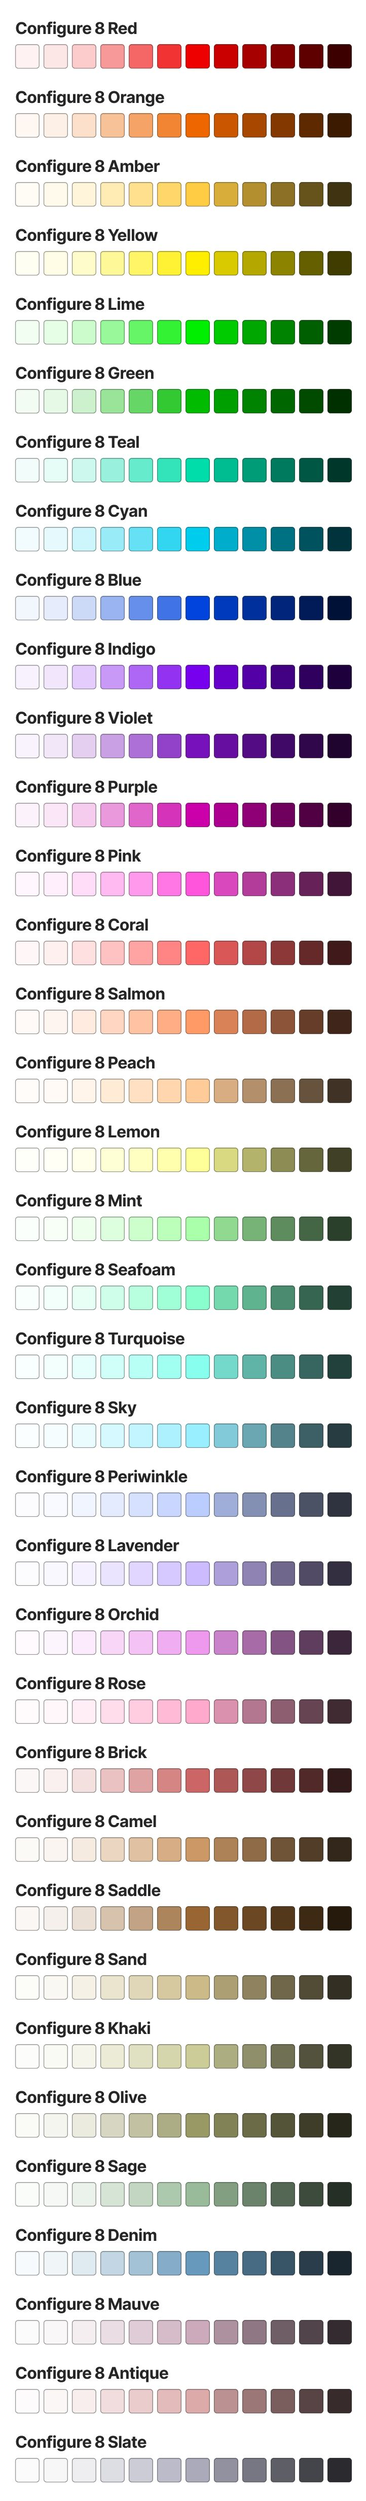
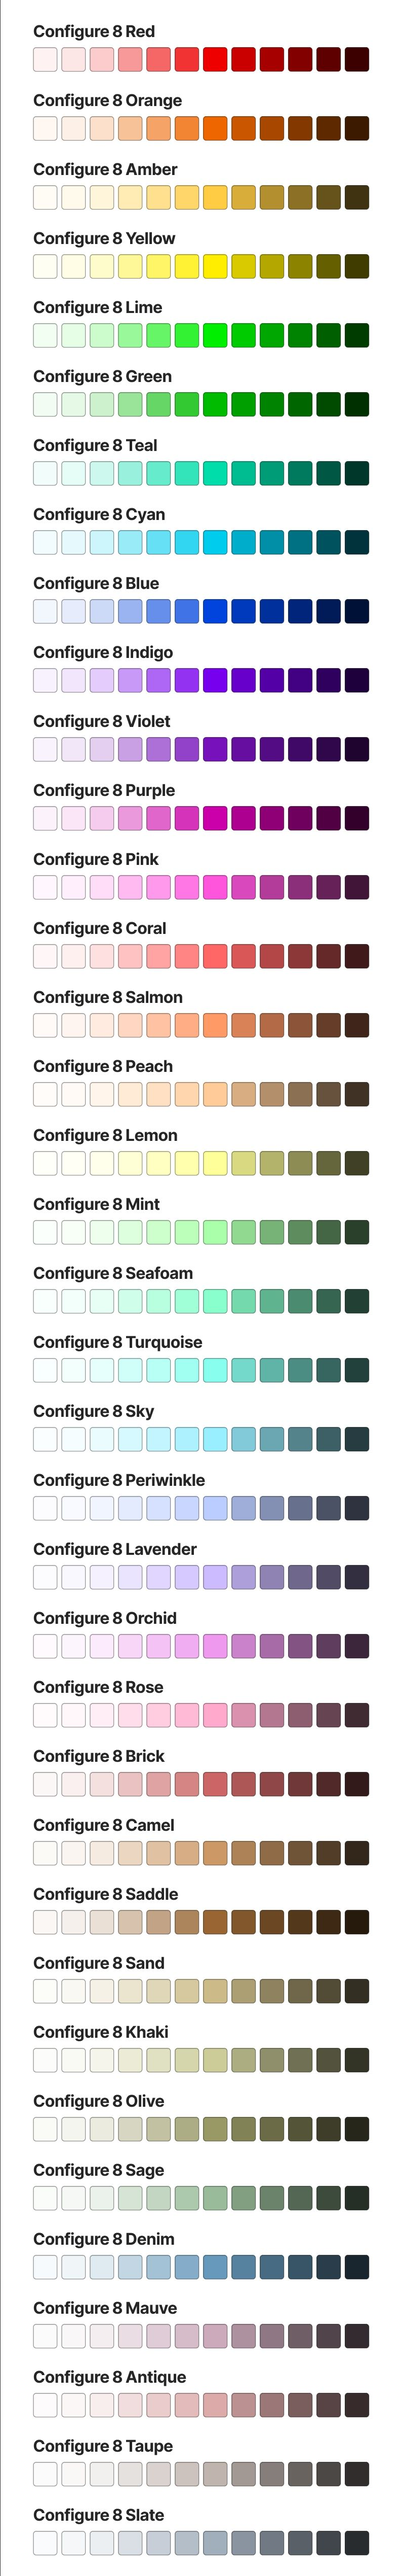
Update from theme.

diff --git a/palette.min.css b/palette.min.css
@@ -1,1 +1,1 @@
-:host,:root{--cfe-color--red-100: #fef2f2;--cfe-color--red-200: #fde6e6;--cfe-color--red-300: #fccccc;--cfe-color--red-400: #f89999;--cfe-color--red-500: #f56666;--cfe-color--red-600: #f13333;--cfe-color--red-700: #ee0000;--cfe-color--red-800: #ca0000;--cfe-color--red-900: #a70000;--cfe-color--red-1000: #830000;--cfe-color--red-1100: #5f0000;--cfe-color--red-1200: #3c0000;--cfe-color--orange-100: #fef7f2;--cfe-color--orange-200: #fdf0e6;--cfe-color--orange-300: #fce0cc;--cfe-color--orange-400: #f8c299;--cfe-color--orange-500: #f5a366;--cfe-color--orange-600: #f18533;--cfe-color--orange-700: #ee6600;--cfe-color--orange-800: #ca5700;--cfe-color--orange-900: #a74700;--cfe-color--orange-1000: #833800;--cfe-color--orange-1100: #5f2900;--cfe-color--orange-1200: #3c1a00;--cfe-color--amber-100: #fffcf6;--cfe-color--amber-200: #fffaec;--cfe-color--amber-300: #fff5da;--cfe-color--amber-400: #ffebb4;--cfe-color--amber-500: #ffe08f;--cfe-color--amber-600: #ffd669;--cfe-color--amber-700: #ffcc44;--cfe-color--amber-800: #d9ad3a;--cfe-color--amber-900: #b38f30;--cfe-color--amber-1000: #8c7025;--cfe-color--amber-1100: #66521b;--cfe-color--amber-1200: #403311;--cfe-color--yellow-100: #fffef2;--cfe-color--yellow-200: #fffde6;--cfe-color--yellow-300: #fffccc;--cfe-color--yellow-400: #fff899;--cfe-color--yellow-500: #fff566;--cfe-color--yellow-600: #fff133;--cfe-color--yellow-700: #ffee00;--cfe-color--yellow-800: #d9ca00;--cfe-color--yellow-900: #b3a700;--cfe-color--yellow-1000: #8c8300;--cfe-color--yellow-1100: #665f00;--cfe-color--yellow-1200: #403c00;--cfe-color--lime-100: #f2fef2;--cfe-color--lime-200: #e6fde6;--cfe-color--lime-300: #ccfccc;--cfe-color--lime-400: #99f899;--cfe-color--lime-500: #66f566;--cfe-color--lime-600: #33f133;--cfe-color--lime-700: #00ee00;--cfe-color--lime-800: #00ca00;--cfe-color--lime-900: #00a700;--cfe-color--lime-1000: #008300;--cfe-color--lime-1100: #005f00;--cfe-color--lime-1200: #003c00;--cfe-color--green-100: #f2fcf2;--cfe-color--green-200: #e6f8e6;--cfe-color--green-300: #ccf1cc;--cfe-color--green-400: #99e499;--cfe-color--green-500: #66d666;--cfe-color--green-600: #33c933;--cfe-color--green-700: #00bb00;--cfe-color--green-800: #009f00;--cfe-color--green-900: #008300;--cfe-color--green-1000: #006700;--cfe-color--green-1100: #004b00;--cfe-color--green-1200: #002f00;--cfe-color--teal-100: #f2fdfb;--cfe-color--teal-200: #e6fcf7;--cfe-color--teal-300: #ccf8ee;--cfe-color--teal-400: #99f1dd;--cfe-color--teal-500: #66ebcc;--cfe-color--teal-600: #33e4bb;--cfe-color--teal-700: #00ddaa;--cfe-color--teal-800: #00bc91;--cfe-color--teal-900: #009b77;--cfe-color--teal-1000: #007a5e;--cfe-color--teal-1100: #005844;--cfe-color--teal-1200: #00372b;--cfe-color--cyan-100: #f2fcfe;--cfe-color--cyan-200: #e6fafd;--cfe-color--cyan-300: #ccf5fc;--cfe-color--cyan-400: #99ebf8;--cfe-color--cyan-500: #66e0f5;--cfe-color--cyan-600: #33d6f1;--cfe-color--cyan-700: #00ccee;--cfe-color--cyan-800: #00adca;--cfe-color--cyan-900: #008fa7;--cfe-color--cyan-1000: #007083;--cfe-color--cyan-1100: #00525f;--cfe-color--cyan-1200: #00333c;--cfe-color--blue-100: #f2f6fd;--cfe-color--blue-200: #e6ecfc;--cfe-color--blue-300: #ccdaf8;--cfe-color--blue-400: #99b4f1;--cfe-color--blue-500: #668feb;--cfe-color--blue-600: #4073e6;--cfe-color--blue-700: #0044dd;--cfe-color--blue-800: #003abc;--cfe-color--blue-900: #00309b;--cfe-color--blue-1000: #00257a;--cfe-color--blue-1100: #001b58;--cfe-color--blue-1200: #001137;--cfe-color--indigo-100: #f8f2fe;--cfe-color--indigo-200: #f2e6fd;--cfe-color--indigo-300: #e4ccfc;--cfe-color--indigo-400: #c999f8;--cfe-color--indigo-500: #ae66f5;--cfe-color--indigo-600: #9333f1;--cfe-color--indigo-700: #7800ee;--cfe-color--indigo-800: #6600ca;--cfe-color--indigo-900: #5400a7;--cfe-color--indigo-1000: #420083;--cfe-color--indigo-1100: #30005f;--cfe-color--indigo-1200: #1e003c;--cfe-color--violet-100: #f8f3fc;--cfe-color--violet-200: #f1e7f8;--cfe-color--violet-300: #e4cff1;--cfe-color--violet-400: #c9a0e4;--cfe-color--violet-500: #ad70d6;--cfe-color--violet-600: #9241c9;--cfe-color--violet-700: #7711bb;--cfe-color--violet-800: #650e9f;--cfe-color--violet-900: #530c83;--cfe-color--violet-1000: #410967;--cfe-color--violet-1100: #30074b;--cfe-color--violet-1200: #1e042f;--cfe-color--purple-100: #fcf2fb;--cfe-color--purple-200: #fae6f7;--cfe-color--purple-300: #f5ccee;--cfe-color--purple-400: #eb99dd;--cfe-color--purple-500: #e066cc;--cfe-color--purple-600: #d633bb;--cfe-color--purple-700: #cc00aa;--cfe-color--purple-800: #ad0091;--cfe-color--purple-900: #8f0077;--cfe-color--purple-1000: #70005e;--cfe-color--purple-1100: #520044;--cfe-color--purple-1200: #33002b;--cfe-color--pink-100: #fff7fd;--cfe-color--pink-200: #ffeefc;--cfe-color--pink-300: #ffddf8;--cfe-color--pink-400: #ffbbf1;--cfe-color--pink-500: #ff99eb;--cfe-color--pink-600: #ff77e4;--cfe-color--pink-700: #ff55dd;--cfe-color--pink-800: #d948bc;--cfe-color--pink-900: #b33c9b;--cfe-color--pink-1000: #8c2f7a;--cfe-color--pink-1100: #662258;--cfe-color--pink-1200: #401537;--cfe-color--coral-100: #fff7f7;--cfe-color--coral-200: #fff0f0;--cfe-color--coral-300: #ffe0e0;--cfe-color--coral-400: #ffc2c2;--cfe-color--coral-500: #ffa3a3;--cfe-color--coral-600: #ff8585;--cfe-color--coral-700: #ff6666;--cfe-color--coral-800: #d95757;--cfe-color--coral-900: #b34747;--cfe-color--coral-1000: #8c3838;--cfe-color--coral-1100: #662929;--cfe-color--coral-1200: #401a1a;--cfe-color--salmon-100: #fffaf7;--cfe-color--salmon-200: #fff5f0;--cfe-color--salmon-300: #ffebe0;--cfe-color--salmon-400: #ffd6c2;--cfe-color--salmon-500: #ffc2a3;--cfe-color--salmon-600: #ffad85;--cfe-color--salmon-700: #ff9966;--cfe-color--salmon-800: #d98257;--cfe-color--salmon-900: #b36b47;--cfe-color--salmon-1000: #8c5438;--cfe-color--salmon-1100: #663d29;--cfe-color--salmon-1200: #40261a;--cfe-color--peach-100: #fffcfa;--cfe-color--peach-200: #fffaf5;--cfe-color--peach-300: #fff5eb;--cfe-color--peach-400: #ffebd6;--cfe-color--peach-500: #ffe0c2;--cfe-color--peach-600: #ffd6ad;--cfe-color--peach-700: #ffcc99;--cfe-color--peach-800: #d9ad82;--cfe-color--peach-900: #b38f6b;--cfe-color--peach-1000: #8c7054;--cfe-color--peach-1100: #66523d;--cfe-color--peach-1200: #403326;--cfe-color--lemon-100: #fffffa;--cfe-color--lemon-200: #fffff5;--cfe-color--lemon-300: #ffffeb;--cfe-color--lemon-400: #ffffd6;--cfe-color--lemon-500: #ffffc2;--cfe-color--lemon-600: #ffffad;--cfe-color--lemon-700: #ffff99;--cfe-color--lemon-800: #d9d982;--cfe-color--lemon-900: #b3b36b;--cfe-color--lemon-1000: #8c8c54;--cfe-color--lemon-1100: #66663d;--cfe-color--lemon-1200: #404026;--cfe-scheme-color--mint-100: #fbfffb;--cfe-scheme-color--mint-200: #f7fff7;--cfe-scheme-color--mint-300: #eeffee;--cfe-scheme-color--mint-400: #ddffdd;--cfe-scheme-color--mint-500: #ccffcc;--cfe-scheme-color--mint-600: #bbffbb;--cfe-scheme-color--mint-700: #aaffaa;--cfe-scheme-color--mint-800: #91d991;--cfe-scheme-color--mint-900: #77b377;--cfe-scheme-color--mint-1000: #5e8c5e;--cfe-scheme-color--mint-1100: #446644;--cfe-scheme-color--mint-1200: #2b402b;--cfe-scheme-color--seafoam-100: #f9fffc;--cfe-scheme-color--seafoam-200: #f3fffa;--cfe-scheme-color--seafoam-300: #e7fff5;--cfe-scheme-color--seafoam-400: #cfffeb;--cfe-scheme-color--seafoam-500: #b8ffe0;--cfe-scheme-color--seafoam-600: #a0ffd6;--cfe-scheme-color--seafoam-700: #88ffcc;--cfe-scheme-color--seafoam-800: #74d9ad;--cfe-scheme-color--seafoam-900: #5fb38f;--cfe-scheme-color--seafoam-1000: #4b8c70;--cfe-scheme-color--seafoam-1100: #366652;--cfe-scheme-color--seafoam-1200: #224033;--cfe-scheme-color--turquoise-100: #f9fffe;--cfe-scheme-color--turquoise-200: #f3fffd;--cfe-scheme-color--turquoise-300: #e7fffc;--cfe-scheme-color--turquoise-400: #cffff8;--cfe-scheme-color--turquoise-500: #b8fff5;--cfe-scheme-color--turquoise-600: #a0fff1;--cfe-scheme-color--turquoise-700: #88ffee;--cfe-scheme-color--turquoise-800: #74d9ca;--cfe-scheme-color--turquoise-900: #5fb3a7;--cfe-scheme-color--turquoise-1000: #4b8c83;--cfe-scheme-color--turquoise-1100: #36665f;--cfe-scheme-color--turquoise-1200: #22403c;--cfe-scheme-color--sky-100: #fafeff;--cfe-scheme-color--sky-200: #f5fdff;--cfe-scheme-color--sky-300: #ebfcff;--cfe-scheme-color--sky-400: #d6f8ff;--cfe-scheme-color--sky-500: #c2f5ff;--cfe-scheme-color--sky-600: #adf1ff;--cfe-scheme-color--sky-700: #99eeff;--cfe-scheme-color--sky-800: #82cad9;--cfe-scheme-color--sky-900: #6ba7b3;--cfe-scheme-color--sky-1000: #54838c;--cfe-scheme-color--sky-1100: #3d5f66;--cfe-scheme-color--sky-1200: #263c40;--cfe-scheme-color--periwinkle-100: #fcfcff;--cfe-scheme-color--periwinkle-200: #f8faff;--cfe-scheme-color--periwinkle-300: #f1f5ff;--cfe-scheme-color--periwinkle-400: #e4ebff;--cfe-scheme-color--periwinkle-500: #d6e0ff;--cfe-scheme-color--periwinkle-600: #c9d6ff;--cfe-scheme-color--periwinkle-700: #bbccff;--cfe-scheme-color--periwinkle-800: #9fadd9;--cfe-scheme-color--periwinkle-900: #838fb3;--cfe-scheme-color--periwinkle-1000: #67708c;--cfe-scheme-color--periwinkle-1100: #4b5266;--cfe-scheme-color--periwinkle-1200: #2f3340;--cfe-color--lavender-100: #fcfcff;--cfe-color--lavender-200: #faf8ff;--cfe-color--lavender-300: #f5f1ff;--cfe-color--lavender-400: #ebe4ff;--cfe-color--lavender-500: #e0d6ff;--cfe-color--lavender-600: #d6c9ff;--cfe-color--lavender-700: #ccbbff;--cfe-color--lavender-800: #ad9fd9;--cfe-color--lavender-900: #8f83b3;--cfe-color--lavender-1000: #70678c;--cfe-color--lavender-1100: #524b66;--cfe-color--lavender-1200: #332f40;--cfe-color--orchid-100: #fefafe;--cfe-color--orchid-200: #fdf5fd;--cfe-color--orchid-300: #fcebfc;--cfe-color--orchid-400: #f8d6f8;--cfe-color--orchid-500: #f5c2f5;--cfe-color--orchid-600: #f1adf1;--cfe-color--orchid-700: #ee99ee;--cfe-color--orchid-800: #ca82ca;--cfe-color--orchid-900: #a76ba7;--cfe-color--orchid-1000: #835483;--cfe-color--orchid-1100: #5f3d5f;--cfe-color--orchid-1200: #3c263c;--cfe-color--rose-100: #fffbfc;--cfe-color--rose-200: #fff7fa;--cfe-color--rose-300: #ffeef5;--cfe-color--rose-400: #ffddeb;--cfe-color--rose-500: #ffcce0;--cfe-color--rose-600: #ffbbd6;--cfe-color--rose-700: #ffaacc;--cfe-color--rose-800: #d991ad;--cfe-color--rose-900: #b3778f;--cfe-color--rose-1000: #8c5e70;--cfe-color--rose-1100: #664452;--cfe-color--rose-1200: #402b33;--cfe-color--brick-100: #fcf7f7;--cfe-color--brick-200: #faf0f0;--cfe-color--brick-300: #f5e0e0;--cfe-color--brick-400: #ebc2c2;--cfe-color--brick-500: #e0a3a3;--cfe-color--brick-600: #d68585;--cfe-color--brick-700: #cc6666;--cfe-color--brick-800: #ad5757;--cfe-color--brick-900: #8f4747;--cfe-color--brick-1000: #703838;--cfe-color--brick-1100: #522929;--cfe-color--brick-1200: #331a1a;--cfe-color--camel-100: #fcfaf7;--cfe-color--camel-200: #faf5f0;--cfe-color--camel-300: #f5ebe0;--cfe-color--camel-400: #ebd6c2;--cfe-color--camel-500: #e0c2a3;--cfe-color--camel-600: #d6ad85;--cfe-color--camel-700: #cc9966;--cfe-color--camel-800: #ad8257;--cfe-color--camel-900: #8f6b47;--cfe-color--camel-1000: #705438;--cfe-color--camel-1100: #523d29;--cfe-color--camel-1200: #33261a;--cfe-color--saddle-100: #faf7f2;--cfe-color--saddle-200: #f5f0e6;--cfe-color--saddle-300: #ebe0cc;--cfe-color--saddle-400: #d6c299;--cfe-color--saddle-500: #c2a366;--cfe-color--saddle-600: #ad8533;--cfe-color--saddle-700: #996600;--cfe-color--saddle-800: #825700;--cfe-color--saddle-900: #6b4700;--cfe-color--saddle-1000: #543800;--cfe-color--saddle-1100: #3d2900;--cfe-color--saddle-1200: #261a00;--cfe-color--sand-100: #fcfcf7;--cfe-color--sand-200: #faf8f0;--cfe-color--sand-300: #f5f1e0;--cfe-color--sand-400: #ebe4c2;--cfe-color--sand-500: #e0d6a3;--cfe-color--sand-600: #d6c985;--cfe-color--sand-700: #ccbb66;--cfe-color--sand-800: #ad9f57;--cfe-color--sand-900: #8f8347;--cfe-color--sand-1000: #706738;--cfe-color--sand-1100: #524b29;--cfe-color--sand-1200: #332f1a;--cfe-color--khaki-100: #fcfcfa;--cfe-color--khaki-200: #fafaf5;--cfe-color--khaki-300: #f5f5eb;--cfe-color--khaki-400: #ebebd6;--cfe-color--khaki-500: #e0e0c2;--cfe-color--khaki-600: #d6d6ad;--cfe-color--khaki-700: #cccc99;--cfe-color--khaki-800: #adad82;--cfe-color--khaki-900: #8f8f6b;--cfe-color--khaki-1000: #707054;--cfe-color--khaki-1100: #52523d;--cfe-color--khaki-1200: #333326;--cfe-color--olive-100: #fafaf7;--cfe-color--olive-200: #f5f5f0;--cfe-color--olive-300: #ebebe0;--cfe-color--olive-400: #d6d6c2;--cfe-color--olive-500: #c2c2a3;--cfe-color--olive-600: #adad85;--cfe-color--olive-700: #999966;--cfe-color--olive-800: #828257;--cfe-color--olive-900: #6b6b47;--cfe-color--olive-1000: #545438;--cfe-color--olive-1100: #3d3d29;--cfe-color--olive-1200: #26261a;--cfe-color--sage-100: #fafcfa;--cfe-color--sage-200: #f5f8f5;--cfe-color--sage-300: #ebf1eb;--cfe-color--sage-400: #d6e4d6;--cfe-color--sage-500: #c2d6c2;--cfe-color--sage-600: #adc9ad;--cfe-color--sage-700: #99bb99;--cfe-color--sage-800: #829f82;--cfe-color--sage-900: #6b836b;--cfe-color--sage-1000: #546754;--cfe-color--sage-1100: #3d4b3d;--cfe-color--sage-1200: #262f26;--cfe-color--denim-100: #f7fafc;--cfe-color--denim-200: #f0f5f8;--cfe-color--denim-300: #e0ebf1;--cfe-color--denim-400: #c2d6e4;--cfe-color--denim-500: #a3c2d6;--cfe-color--denim-600: #85adc9;--cfe-color--denim-700: #6699bb;--cfe-color--denim-800: #57829f;--cfe-color--denim-900: #476b83;--cfe-color--denim-1000: #385467;--cfe-color--denim-1100: #293d4b;--cfe-color--denim-1200: #1a262f;--cfe-color--mauve-100: #fcfbfc;--cfe-color--mauve-200: #faf7f8;--cfe-color--mauve-300: #f5eef1;--cfe-color--mauve-400: #ebdde4;--cfe-color--mauve-500: #e0ccd6;--cfe-color--mauve-600: #d6bbc9;--cfe-color--mauve-700: #ccaabb;--cfe-color--mauve-800: #ad919f;--cfe-color--mauve-900: #8f7783;--cfe-color--mauve-1000: #705e67;--cfe-color--mauve-1100: #52444b;--cfe-color--mauve-1200: #332b2f;--cfe-color--antique-100: #fdfbfb;--cfe-color--antique-200: #fcf7f7;--cfe-color--antique-300: #f8eeee;--cfe-color--antique-400: #f1dddd;--cfe-color--antique-500: #ebcccc;--cfe-color--antique-600: #e4bbbb;--cfe-color--antique-700: #ddaaaa;--cfe-color--antique-800: #bc9191;--cfe-color--antique-900: #9b7777;--cfe-color--antique-1000: #7a5e5e;--cfe-color--antique-1100: #584444;--cfe-color--antique-1200: #372b2b;--cfe-color--slate-100: #fbfbfc;--cfe-color--slate-200: #f7f7f8;--cfe-color--slate-300: #eeeef1;--cfe-color--slate-400: #dddde4;--cfe-color--slate-500: #ccccd6;--cfe-color--slate-600: #bbbbc9;--cfe-color--slate-700: #aaaabb;--cfe-color--slate-800: #91919f;--cfe-color--slate-900: #777783;--cfe-color--slate-1000: #5e5e67;--cfe-color--slate-1100: #44444b;--cfe-color--slate-1200: #2b2b2f}
+:host,:root{--cfe-color--red-100: #fef2f2;--cfe-color--red-200: #fde6e6;--cfe-color--red-300: #fccccc;--cfe-color--red-400: #f89999;--cfe-color--red-500: #f56666;--cfe-color--red-600: #f13333;--cfe-color--red-700: #ee0000;--cfe-color--red-800: #ca0000;--cfe-color--red-900: #a70000;--cfe-color--red-1000: #830000;--cfe-color--red-1100: #5f0000;--cfe-color--red-1200: #3c0000;--cfe-color--orange-100: #fef7f2;--cfe-color--orange-200: #fdf0e6;--cfe-color--orange-300: #fce0cc;--cfe-color--orange-400: #f8c299;--cfe-color--orange-500: #f5a366;--cfe-color--orange-600: #f18533;--cfe-color--orange-700: #ee6600;--cfe-color--orange-800: #ca5700;--cfe-color--orange-900: #a74700;--cfe-color--orange-1000: #833800;--cfe-color--orange-1100: #5f2900;--cfe-color--orange-1200: #3c1a00;--cfe-color--amber-100: #fffcf6;--cfe-color--amber-200: #fffaec;--cfe-color--amber-300: #fff5da;--cfe-color--amber-400: #ffebb4;--cfe-color--amber-500: #ffe08f;--cfe-color--amber-600: #ffd669;--cfe-color--amber-700: #ffcc44;--cfe-color--amber-800: #d9ad3a;--cfe-color--amber-900: #b38f30;--cfe-color--amber-1000: #8c7025;--cfe-color--amber-1100: #66521b;--cfe-color--amber-1200: #403311;--cfe-color--yellow-100: #fffef2;--cfe-color--yellow-200: #fffde6;--cfe-color--yellow-300: #fffccc;--cfe-color--yellow-400: #fff899;--cfe-color--yellow-500: #fff566;--cfe-color--yellow-600: #fff133;--cfe-color--yellow-700: #ffee00;--cfe-color--yellow-800: #d9ca00;--cfe-color--yellow-900: #b3a700;--cfe-color--yellow-1000: #8c8300;--cfe-color--yellow-1100: #665f00;--cfe-color--yellow-1200: #403c00;--cfe-color--lime-100: #f2fef2;--cfe-color--lime-200: #e6fde6;--cfe-color--lime-300: #ccfccc;--cfe-color--lime-400: #99f899;--cfe-color--lime-500: #66f566;--cfe-color--lime-600: #33f133;--cfe-color--lime-700: #00ee00;--cfe-color--lime-800: #00ca00;--cfe-color--lime-900: #00a700;--cfe-color--lime-1000: #008300;--cfe-color--lime-1100: #005f00;--cfe-color--lime-1200: #003c00;--cfe-color--green-100: #f2fcf2;--cfe-color--green-200: #e6f8e6;--cfe-color--green-300: #ccf1cc;--cfe-color--green-400: #99e499;--cfe-color--green-500: #66d666;--cfe-color--green-600: #33c933;--cfe-color--green-700: #00bb00;--cfe-color--green-800: #009f00;--cfe-color--green-900: #008300;--cfe-color--green-1000: #006700;--cfe-color--green-1100: #004b00;--cfe-color--green-1200: #002f00;--cfe-color--teal-100: #f2fdfb;--cfe-color--teal-200: #e6fcf7;--cfe-color--teal-300: #ccf8ee;--cfe-color--teal-400: #99f1dd;--cfe-color--teal-500: #66ebcc;--cfe-color--teal-600: #33e4bb;--cfe-color--teal-700: #00ddaa;--cfe-color--teal-800: #00bc91;--cfe-color--teal-900: #009b77;--cfe-color--teal-1000: #007a5e;--cfe-color--teal-1100: #005844;--cfe-color--teal-1200: #00372b;--cfe-color--cyan-100: #f2fcfe;--cfe-color--cyan-200: #e6fafd;--cfe-color--cyan-300: #ccf5fc;--cfe-color--cyan-400: #99ebf8;--cfe-color--cyan-500: #66e0f5;--cfe-color--cyan-600: #33d6f1;--cfe-color--cyan-700: #00ccee;--cfe-color--cyan-800: #00adca;--cfe-color--cyan-900: #008fa7;--cfe-color--cyan-1000: #007083;--cfe-color--cyan-1100: #00525f;--cfe-color--cyan-1200: #00333c;--cfe-color--blue-100: #f2f6fd;--cfe-color--blue-200: #e6ecfc;--cfe-color--blue-300: #ccdaf8;--cfe-color--blue-400: #99b4f1;--cfe-color--blue-500: #668feb;--cfe-color--blue-600: #4073e6;--cfe-color--blue-700: #0044dd;--cfe-color--blue-800: #003abc;--cfe-color--blue-900: #00309b;--cfe-color--blue-1000: #00257a;--cfe-color--blue-1100: #001b58;--cfe-color--blue-1200: #001137;--cfe-color--indigo-100: #f8f2fe;--cfe-color--indigo-200: #f2e6fd;--cfe-color--indigo-300: #e4ccfc;--cfe-color--indigo-400: #c999f8;--cfe-color--indigo-500: #ae66f5;--cfe-color--indigo-600: #9333f1;--cfe-color--indigo-700: #7800ee;--cfe-color--indigo-800: #6600ca;--cfe-color--indigo-900: #5400a7;--cfe-color--indigo-1000: #420083;--cfe-color--indigo-1100: #30005f;--cfe-color--indigo-1200: #1e003c;--cfe-color--violet-100: #f8f3fc;--cfe-color--violet-200: #f1e7f8;--cfe-color--violet-300: #e4cff1;--cfe-color--violet-400: #c9a0e4;--cfe-color--violet-500: #ad70d6;--cfe-color--violet-600: #9241c9;--cfe-color--violet-700: #7711bb;--cfe-color--violet-800: #650e9f;--cfe-color--violet-900: #530c83;--cfe-color--violet-1000: #410967;--cfe-color--violet-1100: #30074b;--cfe-color--violet-1200: #1e042f;--cfe-color--purple-100: #fcf2fb;--cfe-color--purple-200: #fae6f7;--cfe-color--purple-300: #f5ccee;--cfe-color--purple-400: #eb99dd;--cfe-color--purple-500: #e066cc;--cfe-color--purple-600: #d633bb;--cfe-color--purple-700: #cc00aa;--cfe-color--purple-800: #ad0091;--cfe-color--purple-900: #8f0077;--cfe-color--purple-1000: #70005e;--cfe-color--purple-1100: #520044;--cfe-color--purple-1200: #33002b;--cfe-color--pink-100: #fff7fd;--cfe-color--pink-200: #ffeefc;--cfe-color--pink-300: #ffddf8;--cfe-color--pink-400: #ffbbf1;--cfe-color--pink-500: #ff99eb;--cfe-color--pink-600: #ff77e4;--cfe-color--pink-700: #ff55dd;--cfe-color--pink-800: #d948bc;--cfe-color--pink-900: #b33c9b;--cfe-color--pink-1000: #8c2f7a;--cfe-color--pink-1100: #662258;--cfe-color--pink-1200: #401537;--cfe-color--coral-100: #fff7f7;--cfe-color--coral-200: #fff0f0;--cfe-color--coral-300: #ffe0e0;--cfe-color--coral-400: #ffc2c2;--cfe-color--coral-500: #ffa3a3;--cfe-color--coral-600: #ff8585;--cfe-color--coral-700: #ff6666;--cfe-color--coral-800: #d95757;--cfe-color--coral-900: #b34747;--cfe-color--coral-1000: #8c3838;--cfe-color--coral-1100: #662929;--cfe-color--coral-1200: #401a1a;--cfe-color--salmon-100: #fffaf7;--cfe-color--salmon-200: #fff5f0;--cfe-color--salmon-300: #ffebe0;--cfe-color--salmon-400: #ffd6c2;--cfe-color--salmon-500: #ffc2a3;--cfe-color--salmon-600: #ffad85;--cfe-color--salmon-700: #ff9966;--cfe-color--salmon-800: #d98257;--cfe-color--salmon-900: #b36b47;--cfe-color--salmon-1000: #8c5438;--cfe-color--salmon-1100: #663d29;--cfe-color--salmon-1200: #40261a;--cfe-color--peach-100: #fffcfa;--cfe-color--peach-200: #fffaf5;--cfe-color--peach-300: #fff5eb;--cfe-color--peach-400: #ffebd6;--cfe-color--peach-500: #ffe0c2;--cfe-color--peach-600: #ffd6ad;--cfe-color--peach-700: #ffcc99;--cfe-color--peach-800: #d9ad82;--cfe-color--peach-900: #b38f6b;--cfe-color--peach-1000: #8c7054;--cfe-color--peach-1100: #66523d;--cfe-color--peach-1200: #403326;--cfe-color--lemon-100: #fffffa;--cfe-color--lemon-200: #fffff5;--cfe-color--lemon-300: #ffffeb;--cfe-color--lemon-400: #ffffd6;--cfe-color--lemon-500: #ffffc2;--cfe-color--lemon-600: #ffffad;--cfe-color--lemon-700: #ffff99;--cfe-color--lemon-800: #d9d982;--cfe-color--lemon-900: #b3b36b;--cfe-color--lemon-1000: #8c8c54;--cfe-color--lemon-1100: #66663d;--cfe-color--lemon-1200: #404026;--cfe-scheme-color--mint-100: #fbfffb;--cfe-scheme-color--mint-200: #f7fff7;--cfe-scheme-color--mint-300: #eeffee;--cfe-scheme-color--mint-400: #ddffdd;--cfe-scheme-color--mint-500: #ccffcc;--cfe-scheme-color--mint-600: #bbffbb;--cfe-scheme-color--mint-700: #aaffaa;--cfe-scheme-color--mint-800: #91d991;--cfe-scheme-color--mint-900: #77b377;--cfe-scheme-color--mint-1000: #5e8c5e;--cfe-scheme-color--mint-1100: #446644;--cfe-scheme-color--mint-1200: #2b402b;--cfe-scheme-color--seafoam-100: #f9fffc;--cfe-scheme-color--seafoam-200: #f3fffa;--cfe-scheme-color--seafoam-300: #e7fff5;--cfe-scheme-color--seafoam-400: #cfffeb;--cfe-scheme-color--seafoam-500: #b8ffe0;--cfe-scheme-color--seafoam-600: #a0ffd6;--cfe-scheme-color--seafoam-700: #88ffcc;--cfe-scheme-color--seafoam-800: #74d9ad;--cfe-scheme-color--seafoam-900: #5fb38f;--cfe-scheme-color--seafoam-1000: #4b8c70;--cfe-scheme-color--seafoam-1100: #366652;--cfe-scheme-color--seafoam-1200: #224033;--cfe-scheme-color--turquoise-100: #f9fffe;--cfe-scheme-color--turquoise-200: #f3fffd;--cfe-scheme-color--turquoise-300: #e7fffc;--cfe-scheme-color--turquoise-400: #cffff8;--cfe-scheme-color--turquoise-500: #b8fff5;--cfe-scheme-color--turquoise-600: #a0fff1;--cfe-scheme-color--turquoise-700: #88ffee;--cfe-scheme-color--turquoise-800: #74d9ca;--cfe-scheme-color--turquoise-900: #5fb3a7;--cfe-scheme-color--turquoise-1000: #4b8c83;--cfe-scheme-color--turquoise-1100: #36665f;--cfe-scheme-color--turquoise-1200: #22403c;--cfe-scheme-color--sky-100: #fafeff;--cfe-scheme-color--sky-200: #f5fdff;--cfe-scheme-color--sky-300: #ebfcff;--cfe-scheme-color--sky-400: #d6f8ff;--cfe-scheme-color--sky-500: #c2f5ff;--cfe-scheme-color--sky-600: #adf1ff;--cfe-scheme-color--sky-700: #99eeff;--cfe-scheme-color--sky-800: #82cad9;--cfe-scheme-color--sky-900: #6ba7b3;--cfe-scheme-color--sky-1000: #54838c;--cfe-scheme-color--sky-1100: #3d5f66;--cfe-scheme-color--sky-1200: #263c40;--cfe-scheme-color--periwinkle-100: #fcfcff;--cfe-scheme-color--periwinkle-200: #f8faff;--cfe-scheme-color--periwinkle-300: #f1f5ff;--cfe-scheme-color--periwinkle-400: #e4ebff;--cfe-scheme-color--periwinkle-500: #d6e0ff;--cfe-scheme-color--periwinkle-600: #c9d6ff;--cfe-scheme-color--periwinkle-700: #bbccff;--cfe-scheme-color--periwinkle-800: #9fadd9;--cfe-scheme-color--periwinkle-900: #838fb3;--cfe-scheme-color--periwinkle-1000: #67708c;--cfe-scheme-color--periwinkle-1100: #4b5266;--cfe-scheme-color--periwinkle-1200: #2f3340;--cfe-color--lavender-100: #fcfcff;--cfe-color--lavender-200: #faf8ff;--cfe-color--lavender-300: #f5f1ff;--cfe-color--lavender-400: #ebe4ff;--cfe-color--lavender-500: #e0d6ff;--cfe-color--lavender-600: #d6c9ff;--cfe-color--lavender-700: #ccbbff;--cfe-color--lavender-800: #ad9fd9;--cfe-color--lavender-900: #8f83b3;--cfe-color--lavender-1000: #70678c;--cfe-color--lavender-1100: #524b66;--cfe-color--lavender-1200: #332f40;--cfe-color--orchid-100: #fefafe;--cfe-color--orchid-200: #fdf5fd;--cfe-color--orchid-300: #fcebfc;--cfe-color--orchid-400: #f8d6f8;--cfe-color--orchid-500: #f5c2f5;--cfe-color--orchid-600: #f1adf1;--cfe-color--orchid-700: #ee99ee;--cfe-color--orchid-800: #ca82ca;--cfe-color--orchid-900: #a76ba7;--cfe-color--orchid-1000: #835483;--cfe-color--orchid-1100: #5f3d5f;--cfe-color--orchid-1200: #3c263c;--cfe-color--rose-100: #fffbfc;--cfe-color--rose-200: #fff7fa;--cfe-color--rose-300: #ffeef5;--cfe-color--rose-400: #ffddeb;--cfe-color--rose-500: #ffcce0;--cfe-color--rose-600: #ffbbd6;--cfe-color--rose-700: #ffaacc;--cfe-color--rose-800: #d991ad;--cfe-color--rose-900: #b3778f;--cfe-color--rose-1000: #8c5e70;--cfe-color--rose-1100: #664452;--cfe-color--rose-1200: #402b33;--cfe-color--brick-100: #fcf7f7;--cfe-color--brick-200: #faf0f0;--cfe-color--brick-300: #f5e0e0;--cfe-color--brick-400: #ebc2c2;--cfe-color--brick-500: #e0a3a3;--cfe-color--brick-600: #d68585;--cfe-color--brick-700: #cc6666;--cfe-color--brick-800: #ad5757;--cfe-color--brick-900: #8f4747;--cfe-color--brick-1000: #703838;--cfe-color--brick-1100: #522929;--cfe-color--brick-1200: #331a1a;--cfe-color--camel-100: #fcfaf7;--cfe-color--camel-200: #faf5f0;--cfe-color--camel-300: #f5ebe0;--cfe-color--camel-400: #ebd6c2;--cfe-color--camel-500: #e0c2a3;--cfe-color--camel-600: #d6ad85;--cfe-color--camel-700: #cc9966;--cfe-color--camel-800: #ad8257;--cfe-color--camel-900: #8f6b47;--cfe-color--camel-1000: #705438;--cfe-color--camel-1100: #523d29;--cfe-color--camel-1200: #33261a;--cfe-color--saddle-100: #faf7f5;--cfe-color--saddle-200: #f5f0eb;--cfe-color--saddle-300: #ebe0d6;--cfe-color--saddle-400: #d6c2ad;--cfe-color--saddle-500: #c2a385;--cfe-color--saddle-600: #ad855c;--cfe-color--saddle-700: #996633;--cfe-color--saddle-800: #82572b;--cfe-color--saddle-900: #6b4724;--cfe-color--saddle-1000: #54381c;--cfe-color--saddle-1100: #3d2914;--cfe-color--saddle-1200: #261a0d;--cfe-color--sand-100: #fcfcf9;--cfe-color--sand-200: #faf8f3;--cfe-color--sand-300: #f5f1e7;--cfe-color--sand-400: #ebe4cf;--cfe-color--sand-500: #e0d6b8;--cfe-color--sand-600: #d6c9a0;--cfe-color--sand-700: #ccbb88;--cfe-color--sand-800: #ad9f74;--cfe-color--sand-900: #8f835f;--cfe-color--sand-1000: #70674b;--cfe-color--sand-1100: #524b36;--cfe-color--sand-1200: #332f22;--cfe-color--khaki-100: #fcfcfa;--cfe-color--khaki-200: #fafaf5;--cfe-color--khaki-300: #f5f5eb;--cfe-color--khaki-400: #ebebd6;--cfe-color--khaki-500: #e0e0c2;--cfe-color--khaki-600: #d6d6ad;--cfe-color--khaki-700: #cccc99;--cfe-color--khaki-800: #adad82;--cfe-color--khaki-900: #8f8f6b;--cfe-color--khaki-1000: #707054;--cfe-color--khaki-1100: #52523d;--cfe-color--khaki-1200: #333326;--cfe-color--olive-100: #fafaf7;--cfe-color--olive-200: #f5f5f0;--cfe-color--olive-300: #ebebe0;--cfe-color--olive-400: #d6d6c2;--cfe-color--olive-500: #c2c2a3;--cfe-color--olive-600: #adad85;--cfe-color--olive-700: #999966;--cfe-color--olive-800: #828257;--cfe-color--olive-900: #6b6b47;--cfe-color--olive-1000: #545438;--cfe-color--olive-1100: #3d3d29;--cfe-color--olive-1200: #26261a;--cfe-color--sage-100: #fafcfa;--cfe-color--sage-200: #f5f8f5;--cfe-color--sage-300: #ebf1eb;--cfe-color--sage-400: #d6e4d6;--cfe-color--sage-500: #c2d6c2;--cfe-color--sage-600: #adc9ad;--cfe-color--sage-700: #99bb99;--cfe-color--sage-800: #829f82;--cfe-color--sage-900: #6b836b;--cfe-color--sage-1000: #546754;--cfe-color--sage-1100: #3d4b3d;--cfe-color--sage-1200: #262f26;--cfe-color--denim-100: #f7fafc;--cfe-color--denim-200: #f0f5f8;--cfe-color--denim-300: #e0ebf1;--cfe-color--denim-400: #c2d6e4;--cfe-color--denim-500: #a3c2d6;--cfe-color--denim-600: #85adc9;--cfe-color--denim-700: #6699bb;--cfe-color--denim-800: #57829f;--cfe-color--denim-900: #476b83;--cfe-color--denim-1000: #385467;--cfe-color--denim-1100: #293d4b;--cfe-color--denim-1200: #1a262f;--cfe-color--mauve-100: #fcfbfc;--cfe-color--mauve-200: #faf7f8;--cfe-color--mauve-300: #f5eef1;--cfe-color--mauve-400: #ebdde4;--cfe-color--mauve-500: #e0ccd6;--cfe-color--mauve-600: #d6bbc9;--cfe-color--mauve-700: #ccaabb;--cfe-color--mauve-800: #ad919f;--cfe-color--mauve-900: #8f7783;--cfe-color--mauve-1000: #705e67;--cfe-color--mauve-1100: #52444b;--cfe-color--mauve-1200: #332b2f;--cfe-color--antique-100: #fdfbfb;--cfe-color--antique-200: #fcf7f7;--cfe-color--antique-300: #f8eeee;--cfe-color--antique-400: #f1dddd;--cfe-color--antique-500: #ebcccc;--cfe-color--antique-600: #e4bbbb;--cfe-color--antique-700: #ddaaaa;--cfe-color--antique-800: #bc9191;--cfe-color--antique-900: #9b7777;--cfe-color--antique-1000: #7a5e5e;--cfe-color--antique-1100: #584444;--cfe-color--antique-1200: #372b2b;--cfe-color--taupe-100: #fcfbfb;--cfe-color--taupe-200: #f9f8f7;--cfe-color--taupe-300: #f2f0ef;--cfe-color--taupe-400: #e5e1df;--cfe-color--taupe-500: #d9d2ce;--cfe-color--taupe-600: #ccc3be;--cfe-color--taupe-700: #bfb4ae;--cfe-color--taupe-800: #a29994;--cfe-color--taupe-900: #867e7a;--cfe-color--taupe-1000: #696360;--cfe-color--taupe-1100: #4c4846;--cfe-color--taupe-1200: #302d2c;--cfe-color--slate-100: #fafbfc;--cfe-color--slate-200: #f6f7f8;--cfe-color--slate-300: #eceff2;--cfe-color--slate-400: #d9dfe4;--cfe-color--slate-500: #c7ced7;--cfe-color--slate-600: #b4bec9;--cfe-color--slate-700: #a1aebc;--cfe-color--slate-800: #8994a0;--cfe-color--slate-900: #717a84;--cfe-color--slate-1000: #596067;--cfe-color--slate-1100: #40464b;--cfe-color--slate-1200: #282c2f}

diff --git a/palette.css b/palette.css
@@ -324,30 +324,30 @@
   --cfe-color--camel-1000: #705438;
   --cfe-color--camel-1100: #523d29;
   --cfe-color--camel-1200: #33261a;
-  --cfe-color--saddle-100: #faf7f2;
-  --cfe-color--saddle-200: #f5f0e6;
-  --cfe-color--saddle-300: #ebe0cc;
-  --cfe-color--saddle-400: #d6c299;
-  --cfe-color--saddle-500: #c2a366;
-  --cfe-color--saddle-600: #ad8533;
-  --cfe-color--saddle-700: #996600;
-  --cfe-color--saddle-800: #825700;
-  --cfe-color--saddle-900: #6b4700;
-  --cfe-color--saddle-1000: #543800;
-  --cfe-color--saddle-1100: #3d2900;
-  --cfe-color--saddle-1200: #261a00;
-  --cfe-color--sand-100: #fcfcf7;
-  --cfe-color--sand-200: #faf8f0;
-  --cfe-color--sand-300: #f5f1e0;
-  --cfe-color--sand-400: #ebe4c2;
-  --cfe-color--sand-500: #e0d6a3;
-  --cfe-color--sand-600: #d6c985;
-  --cfe-color--sand-700: #ccbb66;
-  --cfe-color--sand-800: #ad9f57;
-  --cfe-color--sand-900: #8f8347;
-  --cfe-color--sand-1000: #706738;
-  --cfe-color--sand-1100: #524b29;
-  --cfe-color--sand-1200: #332f1a;
+  --cfe-color--saddle-100: #faf7f5;
+  --cfe-color--saddle-200: #f5f0eb;
+  --cfe-color--saddle-300: #ebe0d6;
+  --cfe-color--saddle-400: #d6c2ad;
+  --cfe-color--saddle-500: #c2a385;
+  --cfe-color--saddle-600: #ad855c;
+  --cfe-color--saddle-700: #996633;
+  --cfe-color--saddle-800: #82572b;
+  --cfe-color--saddle-900: #6b4724;
+  --cfe-color--saddle-1000: #54381c;
+  --cfe-color--saddle-1100: #3d2914;
+  --cfe-color--saddle-1200: #261a0d;
+  --cfe-color--sand-100: #fcfcf9;
+  --cfe-color--sand-200: #faf8f3;
+  --cfe-color--sand-300: #f5f1e7;
+  --cfe-color--sand-400: #ebe4cf;
+  --cfe-color--sand-500: #e0d6b8;
+  --cfe-color--sand-600: #d6c9a0;
+  --cfe-color--sand-700: #ccbb88;
+  --cfe-color--sand-800: #ad9f74;
+  --cfe-color--sand-900: #8f835f;
+  --cfe-color--sand-1000: #70674b;
+  --cfe-color--sand-1100: #524b36;
+  --cfe-color--sand-1200: #332f22;
   --cfe-color--khaki-100: #fcfcfa;
   --cfe-color--khaki-200: #fafaf5;
   --cfe-color--khaki-300: #f5f5eb;
@@ -420,16 +420,28 @@
   --cfe-color--antique-1000: #7a5e5e;
   --cfe-color--antique-1100: #584444;
   --cfe-color--antique-1200: #372b2b;
-  --cfe-color--slate-100: #fbfbfc;
-  --cfe-color--slate-200: #f7f7f8;
-  --cfe-color--slate-300: #eeeef1;
-  --cfe-color--slate-400: #dddde4;
-  --cfe-color--slate-500: #ccccd6;
-  --cfe-color--slate-600: #bbbbc9;
-  --cfe-color--slate-700: #aaaabb;
-  --cfe-color--slate-800: #91919f;
-  --cfe-color--slate-900: #777783;
-  --cfe-color--slate-1000: #5e5e67;
-  --cfe-color--slate-1100: #44444b;
-  --cfe-color--slate-1200: #2b2b2f;
+  --cfe-color--taupe-100: #fcfbfb;
+  --cfe-color--taupe-200: #f9f8f7;
+  --cfe-color--taupe-300: #f2f0ef;
+  --cfe-color--taupe-400: #e5e1df;
+  --cfe-color--taupe-500: #d9d2ce;
+  --cfe-color--taupe-600: #ccc3be;
+  --cfe-color--taupe-700: #bfb4ae;
+  --cfe-color--taupe-800: #a29994;
+  --cfe-color--taupe-900: #867e7a;
+  --cfe-color--taupe-1000: #696360;
+  --cfe-color--taupe-1100: #4c4846;
+  --cfe-color--taupe-1200: #302d2c;
+  --cfe-color--slate-100: #fafbfc;
+  --cfe-color--slate-200: #f6f7f8;
+  --cfe-color--slate-300: #eceff2;
+  --cfe-color--slate-400: #d9dfe4;
+  --cfe-color--slate-500: #c7ced7;
+  --cfe-color--slate-600: #b4bec9;
+  --cfe-color--slate-700: #a1aebc;
+  --cfe-color--slate-800: #8994a0;
+  --cfe-color--slate-900: #717a84;
+  --cfe-color--slate-1000: #596067;
+  --cfe-color--slate-1100: #40464b;
+  --cfe-color--slate-1200: #282c2f;
 }

diff --git a/_colors.scss b/_colors.scss
@@ -32,15 +32,80 @@ $orchid:     #ee99ee !default;
 $rose:       #ffaacc !default;
 $brick:      #cc6666 !default;
 $camel:      #cc9966 !default;
-$saddle:     #996600 !default;
-$sand:       #ccbb66 !default;
+$saddle:     #996633 !default;
+$sand:       #ccbb88 !default;
 $khaki:      #cccc99 !default;
 $olive:      #999966 !default;
 $sage:       #99bb99 !default;
 $denim:      #6699bb !default;
 $mauve:      #ccaabb !default;
 $antique:    #ddaaaa !default;
-$slate:      #aaaabb !default;
+$taupe:      #bfb4ae !default;
+$slate:      #a1aebc !default;
+
+$media: $blue;
+
+$color_map: (
+	'red'        : $red,
+	'orange'     : $orange,
+	'amber'      : $amber,
+	'yellow'     : $yellow,
+	'lime'       : $lime,
+	'green'      : $green,
+	'teal'       : $teal,
+	'cyan'       : $cyan,
+	'blue'       : $blue,
+	'indigo'     : $indigo,
+	'violet'     : $violet,
+	'purple'     : $purple,
+	'pink'       : $pink,
+	'coral'      : $coral,
+	'salmon'     : $salmon,
+	'peach'      : $peach,
+	'lemon'      : $lemon,
+	'mint'       : $mint,
+	'seafoam'    : $seafoam,
+	'turquoise'  : $turquoise,
+	'sky'        : $sky,
+	'periwinkle' : $periwinkle,
+	'lavender'   : $lavender,
+	'orchid'     : $orchid,
+	'rose'       : $rose,
+	'brick'      : $brick,
+	'camel'      : $camel,
+	'saddle'     : $saddle,
+	'sand'       : $sand,
+	'khaki'      : $khaki,
+	'olive'      : $olive,
+	'sage'       : $sage,
+	'denim'      : $denim,
+	'mauve'      : $mauve,
+	'antique'    : $antique,
+	'taupe'      : $taupe,
+	'slate'      : $slate
+) !default;
+
+$light: (
+	'body'  : #ffffff,
+	'text'  : #333333,
+	'one'   : #0044ff,
+	'two'   : #0044aa,
+	'three' : #0044aa,
+	'four'  : #0044ff,
+	'five'  : #0044aa,
+	'six'   : #0044ff
+);
+$dark: (
+	'body'  : #1e1e1e,
+	'text'  : #ffffff,
+	'one'   : #0044ff,
+	'two'   : #0044cc,
+	'three' : #0044ff,
+	'four'  : #0044cc,
+	'five'  : #0044aa,
+	'six'   : #0044ff
+);
+$extra: $color_map;
 
 $red-100:  f.lighten( $red, 95% ) !default;
 $red-200:  f.lighten( $red, 90% ) !default;
@@ -1020,6 +1085,34 @@ $antique_map: (
 	'antique-1000' : $antique-1000,
 	'antique-1100' : $antique-1100,
 	'antique-1200' : $antique-1200
+) !default;
+
+$taupe-100:  f.lighten( $taupe, 95% ) !default;
+$taupe-200:  f.lighten( $taupe, 90% ) !default;
+$taupe-300:  f.lighten( $taupe, 80% ) !default;
+$taupe-400:  f.lighten( $taupe, 60% ) !default;
+$taupe-500:  f.lighten( $taupe, 40% ) !default;
+$taupe-600:  f.lighten( $taupe, 20% ) !default;
+$taupe-700:  $taupe !default;
+$taupe-800:  f.darken( $taupe, 15% ) !default;
+$taupe-900:  f.darken( $taupe, 30% ) !default;
+$taupe-1000: f.darken( $taupe, 45% ) !default;
+$taupe-1100: f.darken( $taupe, 60% ) !default;
+$taupe-1200: f.darken( $taupe, 75% ) !default;
+
+$taupe_map: (
+	'taupe-100'  : $taupe-100,
+	'taupe-200'  : $taupe-200,
+	'taupe-300'  : $taupe-300,
+	'taupe-400'  : $taupe-400,
+	'taupe-500'  : $taupe-500,
+	'taupe-600'  : $taupe-600,
+	'taupe-700'  : $taupe-700,
+	'taupe-800'  : $taupe-800,
+	'taupe-900'  : $taupe-900,
+	'taupe-1000' : $taupe-1000,
+	'taupe-1100' : $taupe-1100,
+	'taupe-1200' : $taupe-1200
 ) !default;
 
 $slate-100:  f.lighten( $slate, 95% ) !default;

diff --git a/palette.scss b/palette.scss
@@ -111,6 +111,9 @@
 	@each $name, $color in c.$antique_map {
 		--cfe-color--#{$name}: #{$color};
 	}
+	@each $name, $color in c.$taupe_map {
+		--cfe-color--#{$name}: #{$color};
+	}
 	@each $name, $color in c.$slate_map {
 		--cfe-color--#{$name}: #{$color};
 	}
